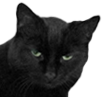
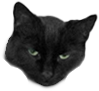
adding kepler-speech

diff --git a/_posts/2018-12-20-porch.html b/_posts/2018-12-20-porch.html
@@ -44,7 +44,7 @@ permalink: /porch.html
         <div class="bubble">
         </div>
         <div class="speaker">
-          <img src="{{ site.baseurl }}/img/kepler-speech.png" width="52" height="48">
+          <img src="{{ site.baseurl }}/img/kepler-curl.png">
         </div>
       </div>
     </div>
@@ -60,7 +60,7 @@ permalink: /porch.html
         <div class="bubble">
         </div>
         <div class="speaker">
-          <img src="{{ site.baseurl }}/img/us.png" width="76" height="48">
+          <img src="{{ site.baseurl }}/img/lightning.png">
         </div>
       </div>
     </div>

diff --git a/css/app.scss b/css/app.scss
@@ -22,7 +22,7 @@ $colorBackgroundTransparent: #fff0;
 // global styilng
 
 body{
-  padding: 1em 0 0 0;
+  padding: 1em 0;
 }
 
 .more{
@@ -70,9 +70,28 @@ body{
   z-index: inherit;
 }
 
+/*
+.bubble::before{
+  content: '';
+  position: absolute;
+  top: 0;
+  background-color: #f00;
+  height: $textFadeHeight;
+  width: 100%;
+}
+
+.attribution::after{
+  content: '';
+  position: absolute;
+  top: $textFadeHeight;
+  background-color: #0f0
+  height: 100%;
+  width: 100%;
+}
+*/
+
 .speaker{
   background-color: $colorBackground;
-  padding-top: 1em;
 }
 
 .bubble::after{
